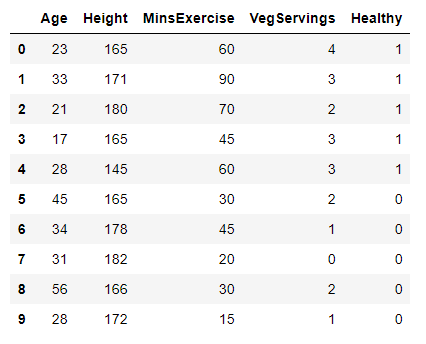
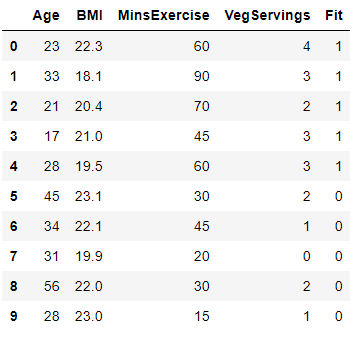
Finish random forest section

diff --git a/templates/result.html b/templates/result.html
@@ -727,62 +727,98 @@
 		conditions (decision trees take random seeds as an initialization parameter) they might turn out to be completely different. Yet because
 		the decisions a tree makes are so interpretable, despite the lack of rubustiness, these models are often used in the industry when explanatory
 		power is needed. For a deep dive into this type of model, I cannot recommend enough Josh Starmer's
-		<a href="https://www.youtube.com/playlist?list=PLblh5JKOoLUKAtDViTvRGFpphEc24M-QH">CART (Classification And Regression Trees) YouTube videos</a>,
-		which are unbeatable at explaining Decision Trees (Josh's StatQuest Channel is unbeatable, period). Here I'll just cover the bare bones.
+		<a href="https://www.youtube.com/playlist?list=PLblh5JKOoLUKAtDViTvRGFpphEc24M-QH">CART (Classification And Regression Trees) YouTube playlist</a>,
+		which is unbeatable at explaining Decision Trees (Josh's StatQuest Channel is unbeatable, period). Here I'll just cover the bare bones.
 		<br><br>
 		A decision tree is so intuitive it is easier to start by looking at the results of a classification tree than to explain how it arrives at those results.
-		Using this quickly made up dataset I constructed a basic classfification tree:
+		Using this quickly made up dataset I constructed a simplistic decision tree to classify whether a patient is fit or unfit for a particular type of
+		exam:
 		<br><br>
 		<center><img src="../static/img/Explanation13.PNG" alt="Explanation 13" width=25%></center>
-		<center><i>Toy dataset for classifying healthy individuals based on a few features.</i></center>
+		<center><i>Toy dataset for classifying patients based on a few features.</i></center>
 		<br><br>
-		The tree's classifications can be explained by a series of decisions starting from a root note and splitting on yes/no branches into nodes and leaves. The
-		nodes are those with decisions and splitting criteria (such as exercising a daily average of 37.5 mins or less) and leaves are the final groupings or
-		classifications.
+		A tree's classifications can be explained by a series of decisions starting from a root note and splitting on yes/no branches into lower nodes and leaves.
+		Nodes present further splits while leaves are final classifications. The tree algorithm arrives at optimal splitting criteria such as having 2.5 veggie
+		servings or less below. Skipping the details of how algorithms arrive at notes and splitting criteria, the important thing to notice with single decision
+		trees	is how they vary significantly in shape depending on a random initialization of the algorithm (see more details below). I've used two slightly
+		different seeds and produced very different trees.
 		<br><br>
 		<center><img src="../static/img/Explanation14.PNG" alt="Explanation 14" width=65%></center>
-		<center><i>Graph of Classification Tree's Decisions and Data Viz of Boundaries on a Plane.</i></center>
+		<center><i>Graphs: Decision Structure & Classification Boundaries on a Plane.</i></center>
 		<br><br>
-		Starting from the root node, we see that the decision tree algorithm quickly recognized that the exercise
-		feature was the best for the initial split, at once classifying four unhealthy individuals just because they
-		exercise less than 37.5 minutes daily on average. This was the first split, the horizontal line in the second
-		graph showing the classification boundaries. The second feature that made the cleanest classifications turned out
-		to be Age. I really thought it would be number of daily veggie servings when I was typing out this dataset.
-		It turns out the tree saw that by splitting on Age next it would arrive at three pure leaves.
+		Tree algorithms seek to reduce the <b>impurity of a node</b> until they can't anymore or some hyperparameter (a parameter specified by the user to
+		regulate the tree's behavior) tells it to stop before overfitting. Impurity is a measure of the "mix of classes" in a given node, or diversity of a node:
+		the least diverse, the more pure. There are many ways to measure impurity but the most common are <b>gini</b> and <b>entropy</b>. Entropy is a measure of
+		disorder of a system so the higher the entropy the more impure or mixed. We see that in our example, since I had a 50/50 mix, the entropy of the root node
+		is 1 (the highest), and since the trees were able to perfectly classify the instances, the leaves are pure (entropy=0).
 		<br><br>
-		Purity is what drives trees. A pure leaf has zero entropy and all instances belong to the same class. At the opposite
-		side of the spectrum, an entropy of 1 means a 50/50 mix of classes (at least in our case). Reducing entropy leads
-		to information gain, which is an overall goal in doing data science. Traveling down the tree we can see this reduction
-		in entropy and gain in purity. More realistic trees don't always end up with pure leaves, which might lead to overfitting,
-		and also with more realistic data exaustive searches for the best possible splits are too time consuming so tree algorithms
-		tend to favor less time-consuming approaches. Often we prune trees before they overfit, and use other criteria to measure purity
-		such as gini impurity.
+		We can see thus how entropy decreases at each node. If a split increases entropy, it is not made and that node becomes a leaf. With more realistic and complex
+		data, exhaustively searching features on which to split, and exaustively searching splitting criteria becomes unfeasible, so heuristic algorithms are the
+		norm, using random searches. Algorithms are initialized with a pseudorandom seed (as is common in many ML algorithms) and single trees are not perfect
+		solutions but good enough solutions. Leaves are often partly impure and that is okay, in fact we prune trees so that they generalize better.
+		<br><br>
+		We can also see how trees divide the data into rectangles. Notice how the first split is horizontal and the next split is vertical in the plots above.
+		If your data looked like a parabola, a tree would be a bad choice of model, although possible. Trees are great at nonlinear classification in higher dimensions so
+		they are great for many real-world problems - the only problem with single trees is how they are innacurate and cannot predict the future well, but what
+		we lose in prediction is gained in interpretability, a common tradeoff in ML.
 		<br><br>
 	</div>
 	<br>
 	<button onclick="ShowDeets('Deets16')">Ensemble Learning</button>
 	<br><br>
-	<div id="Deets15">
+	<div id="Deets16">
+		A solution to the problem of inflexible and inaccurate single trees is to combine many trees into a forest, get all their predictions and take a vote.
+		This draws on the principle of the "wisdom of the crowds" - briefly, that if you get an answer from many and independent people about a topic, they'll
+		make different kinds of errors (because they have different biases) arriving at the answer, but the central tendency (could be the mean, or mode) will
+		be a lot more accurate than an individual answer. This is easily demonstrated in street fairs with jelly bean jars by asking random people to guess
+		the number of beans. The errors cancel themselves out and the crowd often guesses with high accuracy. The general class of methods for this is called
+		<a href="https://en.wikipedia.org/wiki/Ensemble_learning">ensemble learning</a> and below we will look at some of the particular methods in this class.
+		<br><br>
 	</div>
 	<br>
 	<button onclick="ShowDeets('Deets17')">Bagging</button>
 	<br><br>
-	<div id="Deets15">
+	<div id="Deets17">
+		One form of ensemble learning is called Bagging, which is short for
+		<a href="https://en.wikipedia.org/wiki/Bootstrap_aggregating"><b>B</b>ootstrap <b>Agg</b>regat<b>ing</b></a>.
+		<a href="https://en.wikipedia.org/wiki/Bootstrapping_(statistics)">Bootstrapping</a> is basically "random sampling with replacement", a very powerful
+		technique to generate different samples from the same data. The important part is the replacement part: you can end up with repeated instances. Say
+		you are bootstrapping from six dice throws, you might end up with a dataset of: 2, 3, 1, 1, 3, 6. If you were not replacing you would by definition
+		end up with all six, say: 2, 3, 1, 4, 6, 5. If you create various datasets that aren't bootstrapped they will all contain the same samples, so in
+		essence (unless order matters for some reason) they are all the same dataset. If you bootstrap, they might all be slightly different datasets. This means
+		we can, with the same data, bootstrap ourselves (pick ourselves up by our bootstraps, like Baron Munchausen) into creating many different datasets.
+		Sounds like magic, but it works.
+		<br><br>
+		Aggregating the results of many bootstrapped samples of our data and taking a majority vote or some other measure of central tendency we can therefore
+		reduce variance and improve the stability of predictions. Bagging can be used with many procedures but it is commonly applied to decision trees because
+		of their inherent instability.
 	</div>
 	<br>
 	<button onclick="ShowDeets('Deets18')">Random Forests</button>
 	<br><br>
-	<div id="Deets15">
+	<div id="Deets18">
+		A <a href="https://en.wikipedia.org/wiki/Random_forest">Random Forest</a> uses a type of bagging applied to decision trees that takes a subsample of features
+		from the data so as to increase the independence of the trees. This is especially important when there are many features (such as in most NLP cases) and
+		when there's likelihood that many of these featuers are correlated (see <a href="https://en.wikipedia.org/wiki/Multicollinearity">multicollinearity</a>).
+		The number of features to use is a hyperparameter that is controlled by the user (say, a data scientist training a model) so as to find the optimal
+		number for a given problem.
+		<br><br>
+		Josh Starmer's
+		<a href="https://www.youtube.com/playlist?list=PLblh5JKOoLUIE96dI3U7oxHaCAbZgfhHk">Random Forests YouTube playlist</a> is again a great source for learning
+		more about the details such as how at each node all features are considered, and how not all instances are actually used in bagging so we end up with an
+		"out-of-bag" dataset of unused instances that can serve as a form of validation. (One caveat is that if you tune your hyperparameter using the OOB dataset
+		you will in essence overfit this dataset so you still need a solid CV scheme to avoid overfitting). I spend a great deal of time using random forests during
+		training and the finalists arrived at very similar metrics during evaluation to boosting methods, which are generally found to be more accurate.
 	</div>
 	<br>
 	<button onclick="ShowDeets('Deets19')">Boosting</button>
 	<br><br>
-	<div id="Deets15">
+	<div id="Deets19">
 	</div>
 	<br>
 	<button onclick="ShowDeets('Deets20')">Gradient and Gradient Boosting</button>
 	<br><br>
-	<div id="Deets15">
+	<div id="Deets20">
 	</div>
 	XGBoost history and links...
 	<a href="https://arxiv.org/abs/1603.02754">2016 paper</a>
